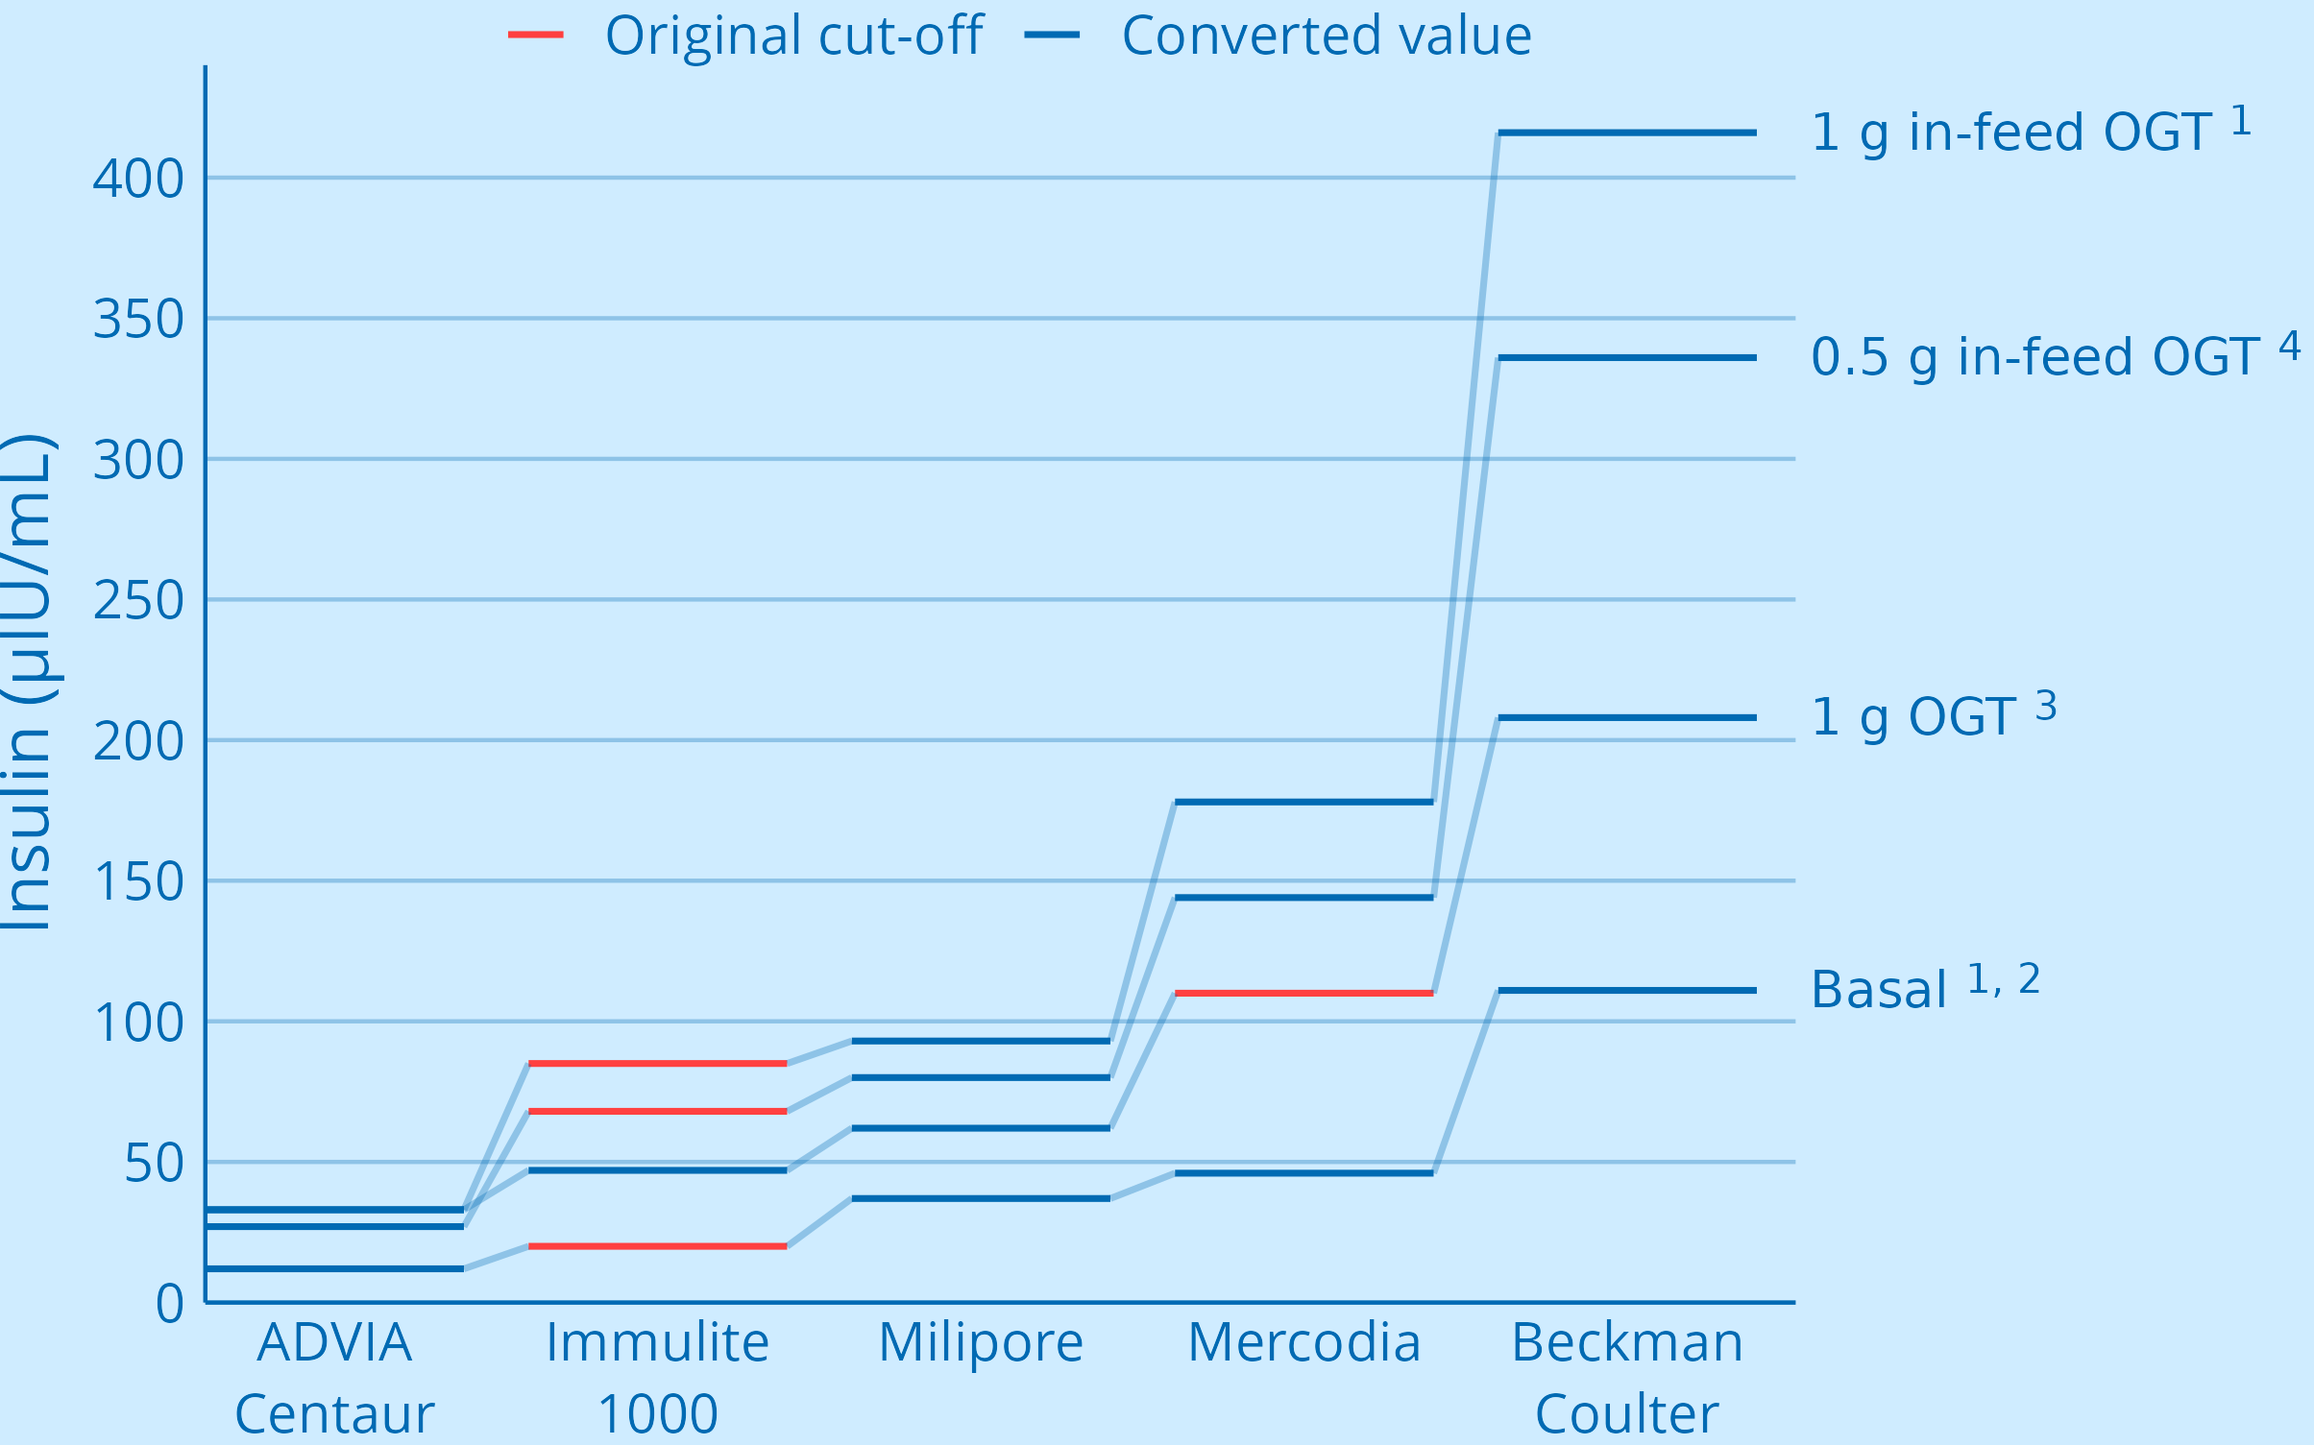
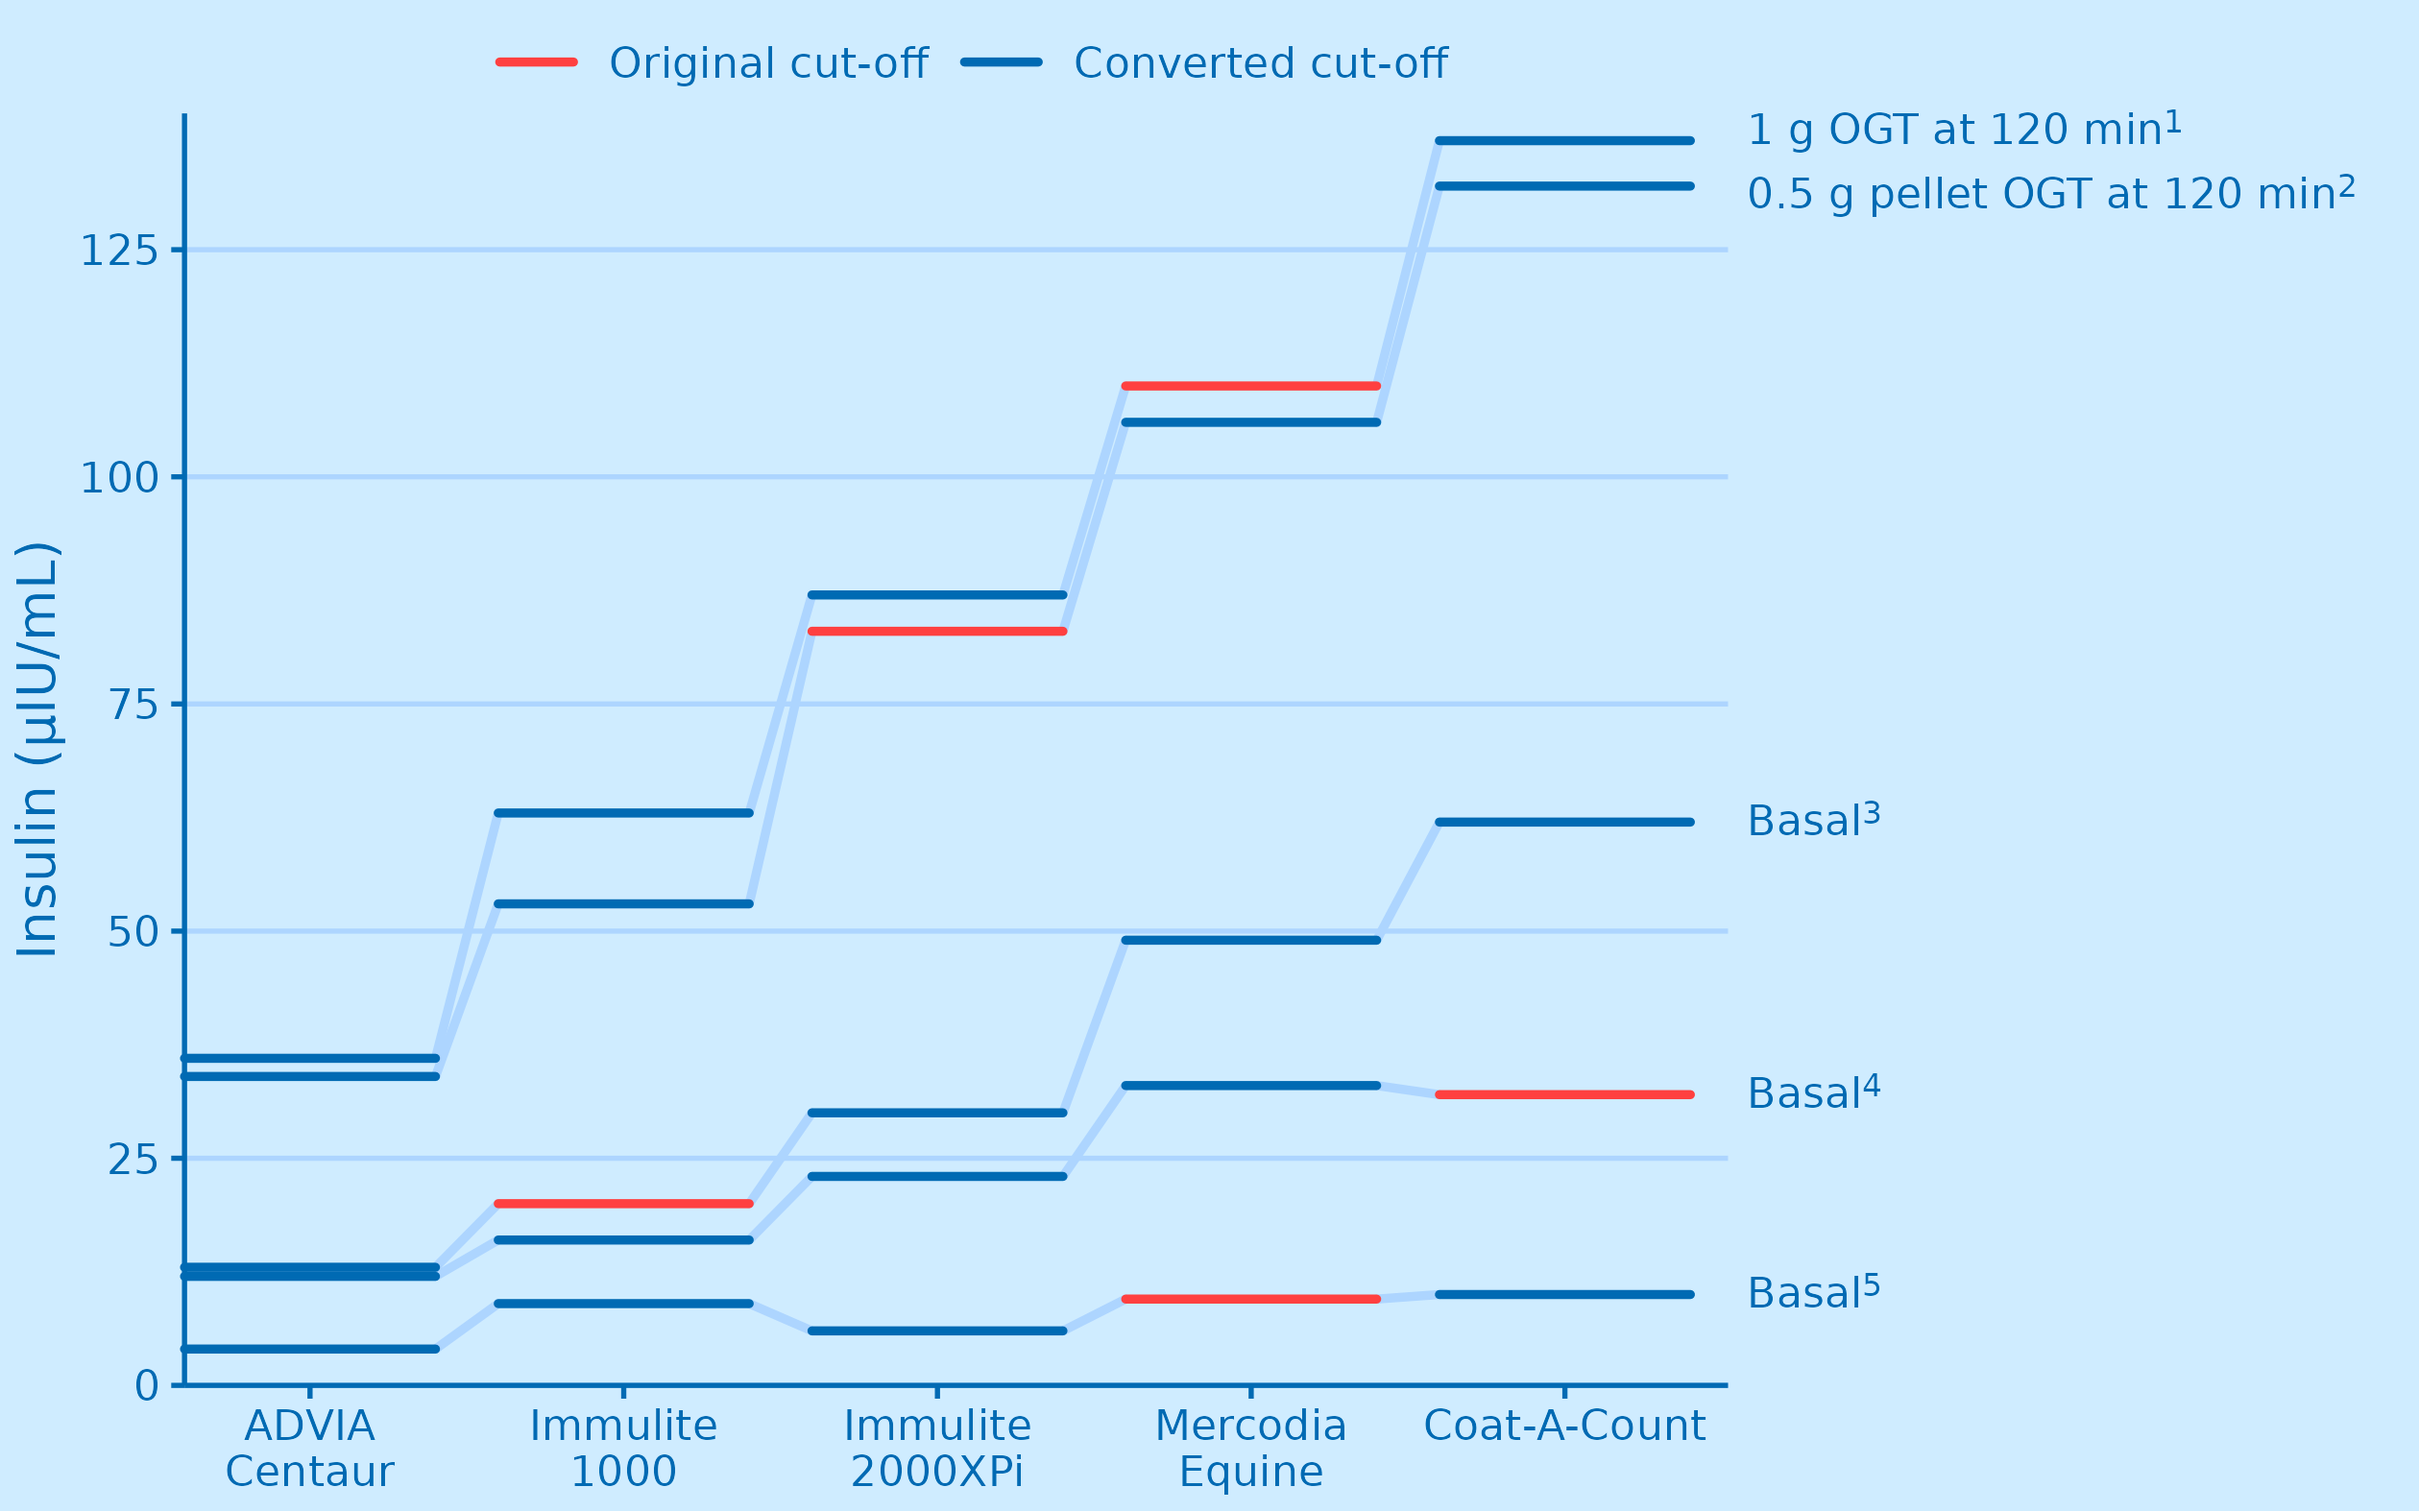
updated cut-off comparison plot and insulin assay plot, added one author

diff --git a/index.html b/index.html
@@ -54,7 +54,7 @@
     assay to another.
   </summary>
   <figure style="margin: 1%; float: right; max-width: 98%; line-height:1.4">
-    <img src="images/insulin_assays.png" alt="Pairs of assays for which a comparison is possible." style="width: 500px; max-width: 100%; margin: 8px">
+    <img src="images/insulin_assays.png" alt="Pairs of assays which can currently be compared." style="width: 500px; max-width: 100%; margin: 8px">
     <figcaption><b>Fig. 1 &mdash; Pairs of assays for which a comparison is possible.</b></figcaption>
   </figure>
   <p>
@@ -126,20 +126,27 @@
   <figure id="fig2">
     <img src="images/conv_comp_plot.png" alt="Comparison of different published cut-offs across assays." style="width: 800px; max-width: 100%; margin: 8px">
     <figcaption style="width: 800px; max-width: 100%; margin-bottom: 5px"><b>Fig. 2 &mdash; Comparison of different published cut-offs across assays.</b><br><br>
-    1. <a href="https://sites.tufts.edu/equineendogroup/">Equine Endocrinology Group, <i>Recommendations for the Diagnosis and Treatment of Equine Metabolic Syndrome (EMS)</i>, 2016, accessed November 2017.</a><br>
-    2. <a href="https://sites.tufts.edu/equineendogroup/">Equine Endocrinology Group, <i>Recommendations for the Diagnosis and Treatment of Equine Metabolic Syndrome (EMS)</i>, 2020, accessed August 2021.</a><br>
-    3. <a href="http://dx.doi.org/10.1186/s13028-018-0358-8">Warnken T, Delarocque
+    1. <a href="https://dx.doi.org/10.1186/s13028-018-0358-8">Warnken T, Delarocque
     J, Schumacher S, Huber K, Feige K. Retrospective analysis of insulin
     responses to standard dosed oral glucose tests (OGTs) via naso-gastric
     tubing towards definition of an objective cut-off value. Acta Veterinaria
     Scandinavica 2018;60. doi:10.1186/s13028-018-0358-8.</a><br>
-    4. <a href="http://dx.doi.org/10.1016/j.domaniend.2017.10.008">Meier AD, de Laat MA, Reiche DB, Pollitt CC, Walsh DM, McGree JM, et al. The oral glucose test predicts laminitis risk in ponies fed a diet high in nonstructural carbohydrates. Domestic Animal Endocrinology 2018;63:1–9. doi:10.1016/j.domaniend.2017.10.008.</a>
+    2. <a href="https://dx.doi.org/10.1111/jvim.16621">de Laat MA, Warnken T, Delarocque J,
+    Reiche DB, Grob AJ, Feige K, et al. Carbohydrate pellets to assess insulin dysregulation
+    in horses. Veterinary Internal Medicne 2022;37:302–14. doi:10.1111/jvim.16621.</a><br>
+    3. <a href="https://sites.tufts.edu/equineendogroup/">Equine Endocrinology Group,
+    <i>Recommendations for the Diagnosis and Treatment of Equine Metabolic Syndrome (EMS)</i>,
+    2020, accessed August 2021.</a><br>
+    4. <a href="https://dx.doi.org/10.2746/042516408x342975">Carter RA, Treiber KH, Geor RJ, Douglass L, Harris PA.
+    Prediction of incipient pasture‐associated laminitis from hyperinsulinaemia, hyperleptinaemia and generalised
+    and localised obesity in a cohort of ponies. Equine Veterinary Journal 2009;41:171–8. doi:10.2746/042516408x342975.</a><br>
+    5. <a href="https://dx.doi.org/10.1186/s12917-021-02781-5">Lindåse S, Nostell K, Bergsten P,
+    Forslund A, Bröjer J. Evaluation of fasting plasma insulin and proxy measurements to assess
+    insulin sensitivity in horses. BMC Vet Res 2021;17. doi:10.1186/s12917-021-02781-5.</a><br>
     </figcaption>
   </figure>
   <p>
-    It is also interesting to note that the lines connecting the converted
-    values to the original cut-offs cross at some point, indicating that
-    <strong>the conversion of insulin measurements is not merely proportional to an
+    The <strong>conversion of insulin measurements is not strictly proportional to an
     assay-specific coefficient</strong>. The interaction between assays and
     insulin ought to be investigated using recombinant equine insulin or
     standardised pooled samples available to all laboratories.
@@ -153,7 +160,7 @@
     inspected to preclude overfitting. The obtained functions were transformed to
     polynomials and embedded in the present app. The intervals given on the right
     hand side before any conversion are the ranges for which data is available in
-    the app. After conversion prediction intervals are given instead. They
+    the app. After conversion, prediction intervals are given instead. They
     describe the uncertainty around the conversion which depends on the amount
     of available data and concordance of the assay pairs.
   </p>
@@ -218,13 +225,15 @@
     <li><a href="https://www.researchgate.net/profile/Julien_Delarocque">Julien
     Delarocque</a> from the <a href="https://www.tiho-hannover.de/pferde">University of Veterinary Medicine Hannover, Foundation</a></li>
     <li><a href="https://www.researchgate.net/profile/Tobias-Warnken">Tobias Warnken</a> from the <a href="https://www.tiho-hannover.de/pferde">University of Veterinary Medicine Hannover, Foundation</a></li>
+    <li><a href="https://www.researchgate.net/profile/Kerstin-Fey">Kerstin Fey</a> from the <a href="https://www.uni-giessen.de/de/fbz/fb10/institute_klinikum/klinikum/klinik-fur-pferde/pferdeklinik_innere/Klinik">Justus-Liebig-University of Giessen</a></li>
     <li><a href="https://scholar.google.co.uk/citations?user=jAvOEugAAAAJ&hl=en&oi=ao">Harry Carslake</a> from the <a href="https://www.liverpool.ac.uk/veterinary-science/about-us/equine-clinical-science/">University of Liverpool</a></li>
     <li><a href="https://liphookequinehospital.co.uk/the-team/hospital-and-referrals/equine-hospital-vets/professor-andy-durham/">Andy Durham</a> from <a href="https://liphookequinehospital.co.uk/">Liphook Equine Hospital</a></li>
     <li><a href="https://elib.tiho-hannover.de/servlets/solr/select?q=%2Bmods.author%3Afeige%2C+%2Bmods.author%3Akarsten+%2Bstate%3A%22published%22+%2BobjectType%3A%22mods%22&fl=*&sort=mods.dateIssued+desc&rows=20&version=4.5&mask=content%2Fsearch%2Fcomplex.xed">Karsten Feige</a> from <a href="https://www.tiho-hannover.de/pferde">University of Veterinary Medicine Hannover, Foundation</a></li>
   </ul>
   <div style="margin-top: 20px; text-align:center">
     <a href="https://www.tiho-hannover.de/pferde"><img src="/images/tiho.png" style="height: 100px; display: inline; margin: 5px 20px 5px 0"></a>
-    <a href="https://www.liverpool.ac.uk/veterinary-science/about-us/equine-clinical-science/"><img src="/images/liverpool.svg" style="height: 80px; display: inline; margin: 15px 20px 15px 20px"></a>
+    <a href="https://www.uni-giessen.de/de/fbz/fb10/institute_klinikum/klinikum/klinik-fur-pferde/pferdeklinik_innere/Klinik"><img src="/images/giessen.jpg" style="height: 80px; display: inline; margin: 15px 20px"></a>
+    <a href="https://www.liverpool.ac.uk/veterinary-science/about-us/equine-clinical-science/"><img src="/images/liverpool.svg" style="height: 80px; display: inline; margin: 15px 20px"></a>
     <a href="https://liphookequinehospital.co.uk/"><img src="/images/liphook.jpg" style="height: 90px; display: inline; margin: 10px 0 10px 20px"></a>
   </div>
 </section>
